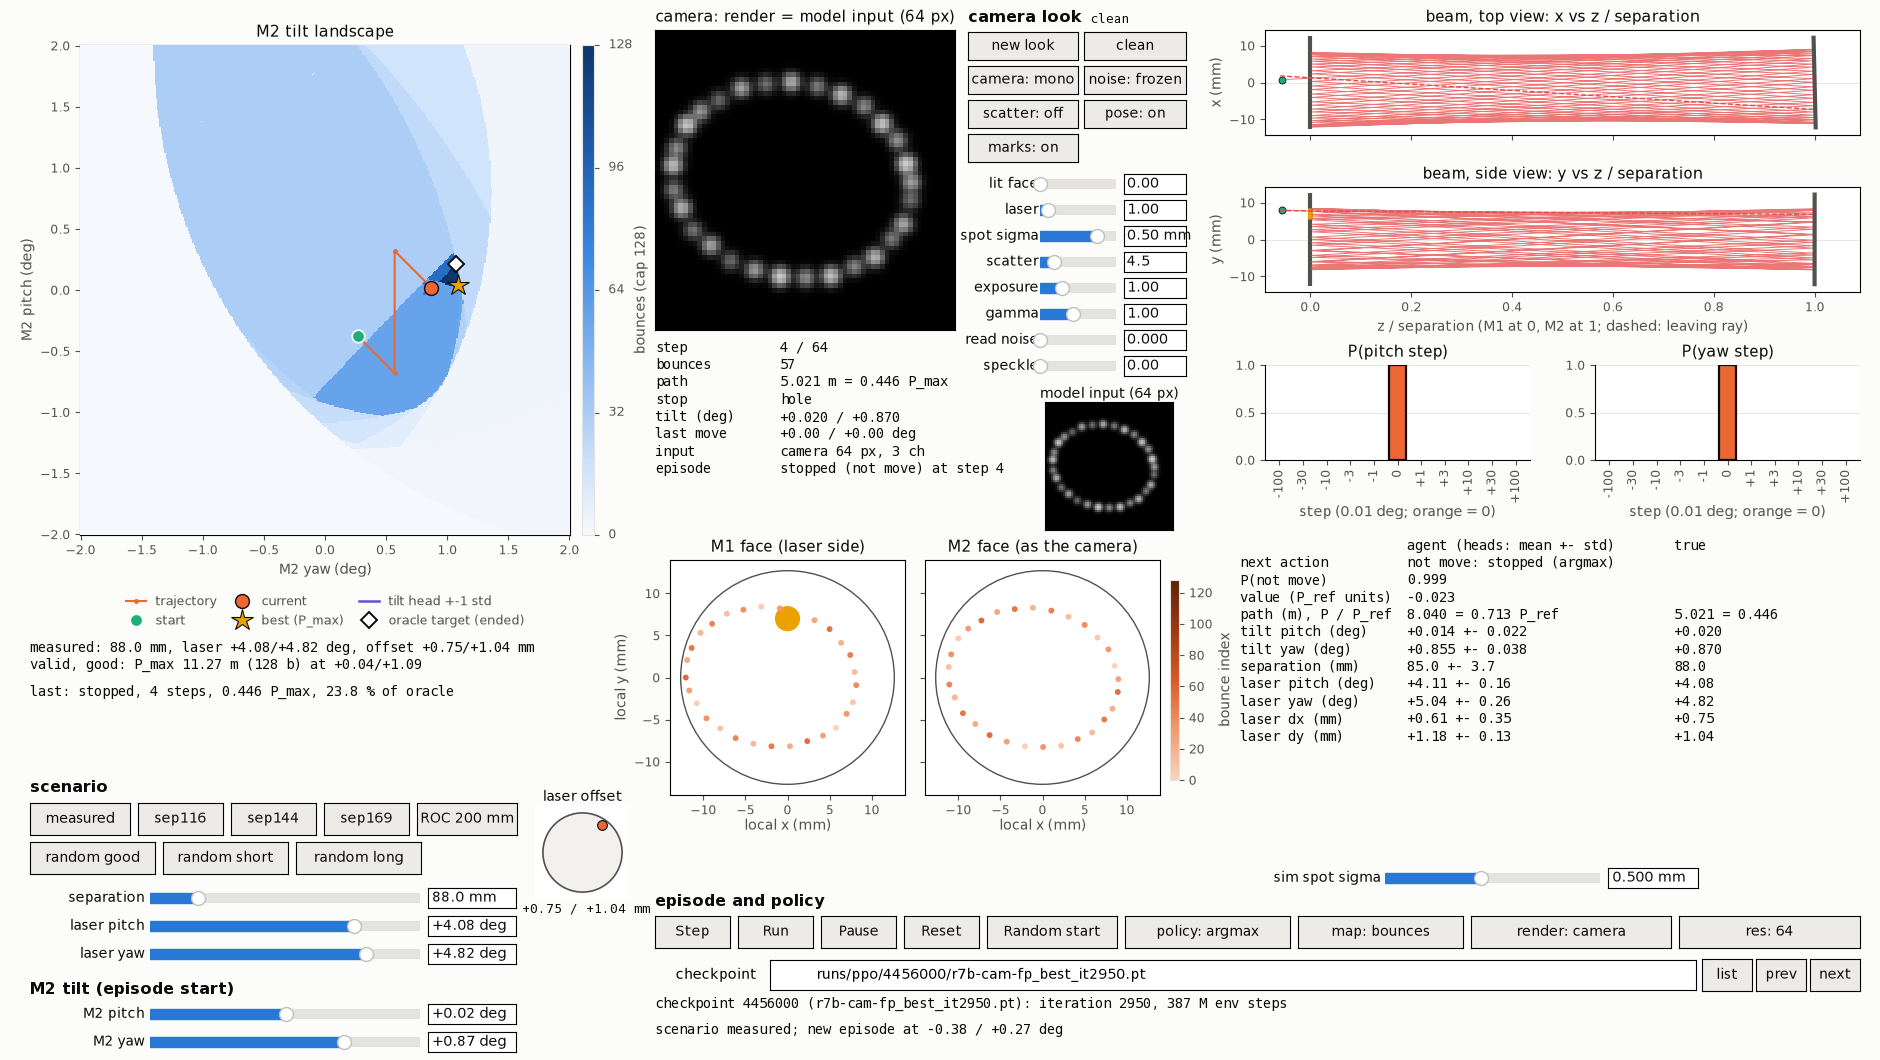
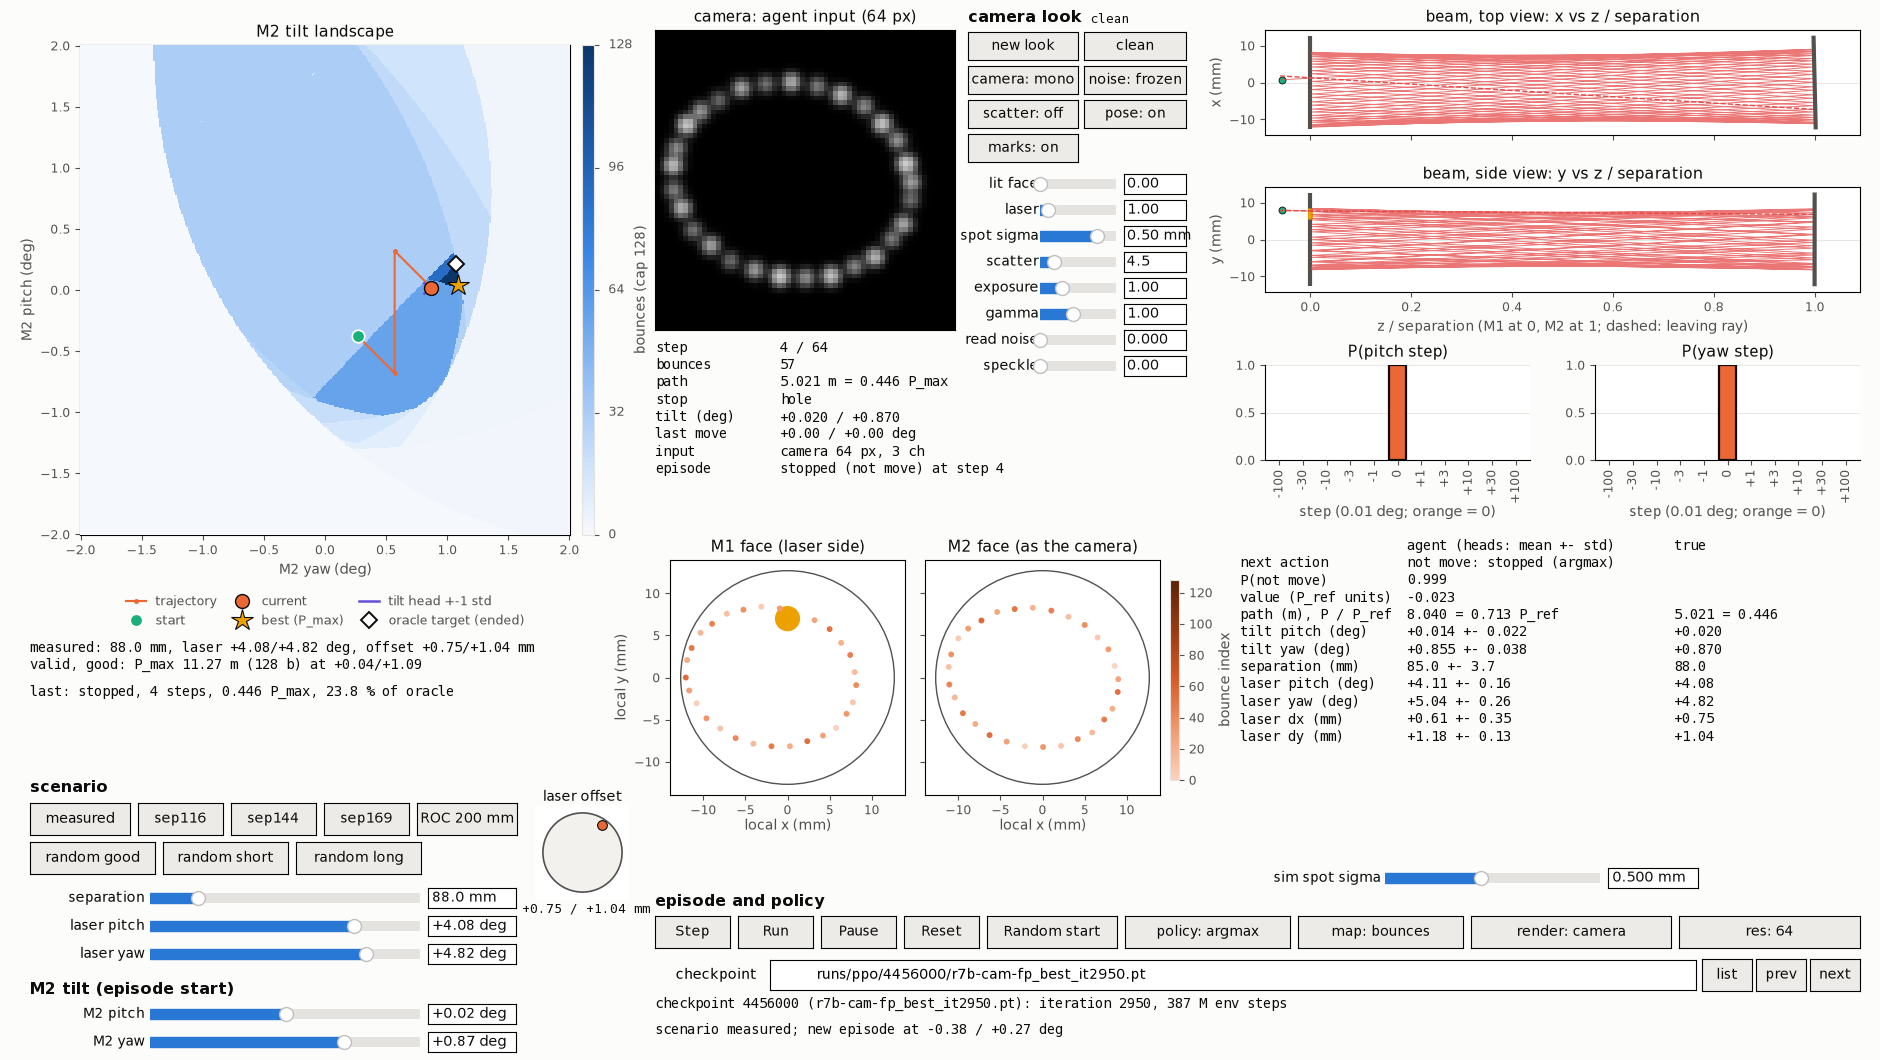
Viewer render resolution as a parameter only: the camera panel shows the 64 px agent input again (no full-render view, no model-input view, no keep_full); res cycles 64 / 128 / 256 (512 dropped)

Changed region(s): [[0.5553, 0.3425, 0.6479, 0.4981], [0.3394, 0.0, 0.4936, 0.0311]]

diff --git a/rl/interactive_policy_trial.py b/rl/interactive_policy_trial.py
@@ -18,11 +18,11 @@ Panels
                (P_max), the tilt-head estimate (mean +- 1 std) and, once the episode
                ended, the oracle's target. Below: the scenario and the last episode vs its
                oracle
-    camera     the env's render at the render resolution (sim: env.SpotRenderer; camera:
-               render_camera.CameraRenderer with the camera look; gray / RGB), step,
-               bounce count, path, stop reason, input (style, resolution, channels),
-               episode state; right of the text the 64 px model input (the render scaled
-               down, with the agent's input channels: RGB for 3, gray for 1)
+    camera     the 64 px uint8 image the agent receives, in the render style (sim:
+               env.SpotRenderer; camera: render_camera.CameraRenderer with the camera
+               look), rendered at the render resolution and scaled down to 64 px, and the
+               agent's input channels (RGB for 3, gray for 1), step, bounce count, path,
+               stop reason, input (style, resolution, channels), episode state
     look       camera look panel (right of the camera image), see Camera look
     beam       x-z and y-z side views (z / separation) of the ray between the mirrors
                (dashed: the leaving ray), both mirror faces with the hit points (local x / y,
@@ -61,17 +61,18 @@ Controls and keys
                env.SpotRenderer (1 channel, runs r2-r6), camera =
                render_camera.CameraRenderer under the camera look (3 channels). A loaded
                checkpoint starts in camera if it trained with --camera, else in sim (the
-               camera look stays); res: 64 / 128 / 256 / 512 -> 64 (cycles; the render
-               resolution: EnvConfig.render_res, response and 8-bit per sensor pixel, then
-               the mean of each block to 64 px, as a camera image resized for the encoder;
-               the env is rebuilt with keep_full, look and checkpoint kept, a new episode
+               camera look stays); res: 64 / 128 / 256 -> 64 (cycles; the render
+               resolution before the downscale: EnvConfig.render_res, response and 8-bit
+               per sensor pixel, then the mean of each block to 64 px, as a camera image
+               resized for the encoder; the env is rebuilt, look and checkpoint kept, a new
+               episode
                starts at the start tilt; the first camera render at a new resolution
                compiles the renderer: seconds); sim spot sigma slider (0.1-1 mm, the
                sim style's EnvConfig.spot_sigma, default 0.5; the camera uses the look's
                spot sigma). The image reaches the agent with its
                encoder's in_ch channels: 1 -> 3 copies the gray image (as the 3-channel
                encoders were trained to take it), 3 -> 1 takes the channel mean (rounded);
-               the model input view shows that image
+               the camera panel shows that image
                named setups (measured, sep116, sep144, sep169: their separation, laser tilt
                and measured offset; the start moves to the setup's nominal tilt), ROC 200 /
                150 mm (mirror radius of curvature, both mirrors; 200: the measured cell, the
@@ -237,7 +238,6 @@ SCEN_TXT_RECT = _px(30, 380, 590, 38)
 LAST_TXT_RECT = _px(30, 352, 590, 22)
 CAM_RECT = _px(655, 730, 300, 300)
 CAM_TXT_RECT = _px(655, 570, 520, 148)
-IN_RECT = _px(1045, 530, 128, 128)  # Model input view (right of the camera text)
 FACE_RECTS = (_px(670, 265, 235, 235), _px(925, 265, 235, 235))
 HIT_CBAR_RECT = _px(1170, 280, 9, 200)
 SIDE_RECTS = (_px(1265, 925, 595, 105), _px(1265, 768, 595, 105))
@@ -263,7 +263,7 @@ FS_HEAD = 11.5  # Control group headers
 SEP_RANGE = (20.0, 400.0)  # mm (slider step 0.5 mm; keys [ ] and { })
 ROCS = (200.0, 150.0)  # mm, mirror ROC button (200: measured cell; 150: March 2026 sim)
 RENDER_STYLES = ("sim", "camera")  # Render button (env images)
-RENDER_FACTORS = (1, 2, 4, 8)  # Res button: render at factor x img_res, block mean to img_res
+RENDER_FACTORS = (1, 2, 4)  # Res button: render at factor x img_res, block mean to img_res
 SIM_SIGMA_RANGE = (0.1, 1.0)  # mm, sim spot sigma slider (EnvConfig.spot_sigma, step 0.005)
 # Camera look panel: camera button, noise button, sliders (CameraParams key, label, range
 # (the CameraRanges defaults; 0 = off where it has an off), step, format)
@@ -404,7 +404,6 @@ class Frame:
     bounces: int
     stop: int  # herriott_sim STOP_*
     image: np.ndarray  # (H, W) gray or (H, W, 3) RGB uint8, the agent's input
-    render: np.ndarray  # The env's render before the downscale (render_px; env channels)
     applied: np.ndarray  # (2,) deg, applied delta that led to the frame (0 at the start)
     hits: np.ndarray  # (n, 3) world hit points
     hit_mirror: np.ndarray  # (n,) 1 = M1, 2 = M2
@@ -1137,7 +1136,7 @@ class Session:
     @torch.inference_mode()
     def set_render_res(self, factor: int) -> Frame:
         """Render resolution factor x img_res (RENDER_FACTORS), scaled down to img_res
-        (EnvConfig.render_res, keep_full): an open episode is logged, the env rebuilt (the
+        (EnvConfig.render_res): an open episode is logged, the env rebuilt (the
         look kept), a new episode starts at the start tilt."""
         assert factor in RENDER_FACTORS, f"render factor {factor}"
         self._finish_open()
@@ -1188,14 +1187,13 @@ class Session:
         """AlignEnv of the run's settings with one scenario (5 parameters): separation and
         laser tilt as its one-row table, the laser offset in its geometry; P_ref (1,);
         images of the render style (camera: the camera look on every reset; sim: the sim
-        spot sigma) rendered at render_px(), scaled down to img_res (env.image_full keeps
-        the full-resolution image)."""
+        spot sigma) rendered at render_px(), scaled down to img_res."""
         sep, lp, ly, dx, dy = self.full_params(params)
         ec = env_config(self.pcfg, 1, False, self.cfg.seed, setups="full")
         rr = self.render_px()
         sim = self.render_style == "sim"
         ec = replace(ec, camera=None if sim else self.look_ranges(),
-                     render_res=rr if rr > ec.img_res else 0, keep_full=rr > ec.img_res,
+                     render_res=rr if rr > ec.img_res else 0,
                      spot_sigma=self.sim_sigma if sim else ec.spot_sigma,
                      geometry=replace(ec.geometry, laser_dx=dx, laser_dy=dy,
                                       roc=self.geom.roc))
@@ -1271,10 +1269,8 @@ class Session:
         env = self.env
         sim = env.sim.simulate(env.states(env.tilt, env.setup), store_world=True)
         img = self.agent_image(env.image)
-        full = getattr(env, "image_full", None) if self.render_factor > 1 else None
         items = {"tilt": env.tilt[0], "path": env.path[:1], "bounces": env.bounces[:1],
                  "stop": env.stop[:1], "step": env.step_count[:1], "image": img[0],
-                 "render": (env.image if full is None else full)[0],
                  "applied": env.prev_action[0] * env.max_step, "count": sim["hit_counts"][:1],
                  "hits": sim["hit_sequence"][0], "mirror": sim["hit_mirror"][0],
                  "local": sim["hit_local_xy"][0], "ep_return": env.ep_return[:1],
@@ -1300,11 +1296,9 @@ class Session:
         n = int(h["count"][0])
         im = h["image"].astype(np.uint8)  # (C, H, W) -> gray (H, W) or RGB (H, W, 3)
         im = im[0] if im.shape[0] == 1 else im.transpose(1, 2, 0)
-        rn = h["render"].astype(np.uint8)
-        rn = rn[0] if rn.shape[0] == 1 else rn.transpose(1, 2, 0)
         f = Frame(step=int(h["step"][0]), tilt=h["tilt"].astype(np.float64),
                   path_mm=float(h["path"][0]), bounces=int(h["bounces"][0]),
-                  stop=int(h["stop"][0]), image=im, render=rn,
+                  stop=int(h["stop"][0]), image=im,
                   applied=h["applied"].astype(np.float64), hits=h["hits"][:n],
                   hit_mirror=h["mirror"][:n].astype(np.int64), hit_local=h["local"][:n],
                   ep_return=float(h["ep_return"][0]), moves=int(h["moves"][0]))
@@ -1780,16 +1774,7 @@ class Viewer:
                                   interpolation="nearest"))
         ax.set_xticks([])
         ax.set_yticks([])
-        self.cam_title = ax.set_title("", **tit)  # Background: set by _set_cam_title
-        # The model input (img_res px) when the render is scaled down to it
-        ax = self.ax_in = fig.add_axes(IN_RECT)
-        self.im_in = A(ax.imshow(np.zeros((res, res), np.uint8), cmap="gray", vmin=0, vmax=255,
-                                 origin="upper", extent=(-R, R, -R, R),
-                                 interpolation="nearest"))
-        ax.set_xticks([])
-        ax.set_yticks([])
-        ax.set_title(f"model input ({res} px)", fontsize=FS_LABEL, color=INK, pad=3)
-        self._set_cam_title()
+        ax.set_title(f"camera: agent input ({res} px)", **tit)
         _, tax = self._text(CAM_TXT_RECT, "step\nbounces\npath\nstop\ntilt (deg)\nlast move\n"
                             "input\nepisode", layer=None)
         self.tx_cam, _ = self._text(None, ax=tax, x=0.24)
@@ -2184,8 +2169,7 @@ class Viewer:
         else:
             self.ln_oracle.set_data([], [])
         self.tx_last.set_text(self._last_text())
-        self.im_cam.set_data(f.render)
-        self.im_in.set_data(f.image)
+        self.im_cam.set_data(f.image)
         self.tx_cam.set_text(self._camera_text(f))
         self._show_beam(f)
         self._show_policy(f)
@@ -2343,12 +2327,6 @@ class Viewer:
                   f"at {f.tilt[0]:+.2f} / {f.tilt[1]:+.2f} deg")
         self._show(f, scene=True)
 
-    def _set_cam_title(self):
-        """Camera panel title (background artist: the caller redraws the figure)."""
-        s = self.s
-        self.cam_title.set_text(f"camera: render ({s.render_px()} px)" if s.render_factor > 1
-                                else f"camera: render = model input ({s.pcfg.img_res} px)")
-
     def _on_res(self):
         """Next render resolution of RENDER_FACTORS x img_res, scaled down to img_res: env
         rebuilt (look and checkpoint kept), new episode at the start tilt."""
@@ -2358,11 +2336,9 @@ class Viewer:
         t0 = time.perf_counter()
         f = s.set_render_res(k)
         self._set_toggle_labels()
-        self._set_cam_title()
         self._say(f"render {s.input_text()} ({time.perf_counter() - t0:.1f} s); new episode "
                   f"at {f.tilt[0]:+.2f} / {f.tilt[1]:+.2f} deg")
         self._show(f, scene=True)
-        self.canvas.draw_idle()  # The panel title is in the background
 
     def _on_sim_sigma_slider(self, sl):
         if not self.th_sim():
@@ -3050,9 +3026,7 @@ def selftest(cfg: ViewerConfig, screenshot: str) -> int:
         f = s.frame
         styles_ok &= (s.env.img_shape[0] == (1 if s.render_style == "sim" else 3)
                       and f.step == 1 and f.image.shape == shape
-                      and v.im_in.get_array().shape == shape
-                      and v.im_cam.get_array().shape == ((res, res) if s.render_style == "sim"
-                                                         else (res, res, 3))
+                      and v.im_cam.get_array().shape == shape
                       and s.ring.frame.shape[2] == in_ch and s.render_style in v.message
                       and _read_csv(s.log_writer.paths["steps"])[-1]["render"] == s.render_style)
         print(f"  {s.input_text()}: agent input {tuple(s.ring.frame.shape[2:])}, camera panel "
@@ -3112,9 +3086,9 @@ def selftest(cfg: ViewerConfig, screenshot: str) -> int:
     checks["camera look: fixed, noise modes, controls, log, clean"] = (
         fixed and live and off and face and red and logged and clean)
 
-    # Render resolution: camera and sim at 64 / 128 / 256 / 512 px, scaled down to the
-    # 64 px model input (the block mean of the panel's render), the look kept (its
-    # per-pixel parts follow), logged; the sim spot sigma changes the sim render
+    # Render resolution: camera and sim at 64 / 128 / 256 px, scaled down to the 64 px
+    # model input (sim: the block mean of the full render), the look kept (its per-pixel
+    # parts follow), logged; the sim spot sigma changes the sim render
     from env import downscale
 
     res_ok = True
@@ -3124,25 +3098,27 @@ def selftest(cfg: ViewerConfig, screenshot: str) -> int:
         for k in RENDER_FACTORS[1:] + RENDER_FACTORS[:1]:
             click(v.buttons["res"].ax)
             v._on_step()
-            f, rr = s.frame, k * res
-            full = torch.as_tensor(f.render).to(s.device)
-            full = (full[None, None] if full.dim() == 2 else full.permute(2, 0, 1)[None])
-            look_ok = style == "sim" or all(
-                torch.equal(t, look_at_res(p_look, rr)[key])
-                for key, t in s.env.cam_params.items())
-            ok = (s.render_factor == k and s.env.render_factor == k and f.step == 1
-                  and f.render.shape[:2] == (rr, rr) and f.image.shape == shape
-                  and v.im_cam.get_array().shape[:2] == (rr, rr)
-                  and torch.equal(downscale(full, k), s.env.image) and look_ok
+            f, rr, env = s.frame, k * res, s.env
+            if style == "sim":
+                out = env.sim.simulate(env.states(env.tilt, env.setup))
+                full = getattr(env.renderer, "full", env.renderer)
+                pipe_ok = full.res == rr and torch.equal(
+                    downscale(full(out["hit_mirror"], out["hit_local_xy"]), k), env.image)
+            else:
+                pipe_ok = env.cam.res == rr and all(
+                    torch.equal(t, look_at_res(p_look, rr)[key])
+                    for key, t in env.cam_params.items())
+            ok = (s.render_factor == k and env.render_factor == k and f.step == 1
+                  and f.image.shape == shape and v.im_cam.get_array().shape == shape
+                  and pipe_ok
                   and int(_read_csv(s.log_writer.paths["steps"])[-1]["render_res"]) == rr
                   and (k == 1 or f"{rr} -> {res}" in v.message))
             res_ok &= ok
-            print(f"  {s.input_text()}: render {f.render.shape}, model input {f.image.shape}"
-                  f"{'' if ok else ' FAILED'}")
-    im0 = s.frame.render.copy()
+            print(f"  {s.input_text()}: agent input {f.image.shape}{'' if ok else ' FAILED'}")
+    im0 = s.frame.image.copy()
     type_in(v.sl_sim_sigma, "0.25")
     sig = (s.sim_sigma == 0.25 and s.env.renderer.sigma == 0.25
-           and not np.array_equal(s.frame.render, im0)
+           and not np.array_equal(s.frame.image, im0)
            and float(_read_csv(s.log_writer.paths["episodes"])[-1]["spot_sigma_mm"]) == 0.5)
     type_in(v.sl_sim_sigma, "0.5")
     checks["render resolution (camera, sim), sim spot sigma"] = (
@@ -3220,8 +3196,8 @@ def main(argv: Optional[List[str]] = None) -> int:
             "  of each slider takes a typed value (Enter applies, Escape cancels)\n"
             "render button: sim / camera images for the agent and the camera panel (adapted\n"
             "  to the agent's input channels); the camera look panel sets the camera render\n"
-            "  (fixed over tilt changes and episodes); res: render at 64 / 128 / 256 / 512 px,\n"
-            "  scaled down to the 64 px model input (shown right of the camera text)\n"
+            "  (fixed over tilt changes and episodes); res: render at 64 / 128 / 256 px, scaled\n"
+            "  down to the 64 px agent input\n"
             "keys: right or s step, space run / pause, r reset (start tilt), n random start,\n"
             "  d argmax / sampled, m map color, g random good scenario, [ / ] separation\n"
             "  -/+0.5 mm, { / } -/+5 mm\n"
